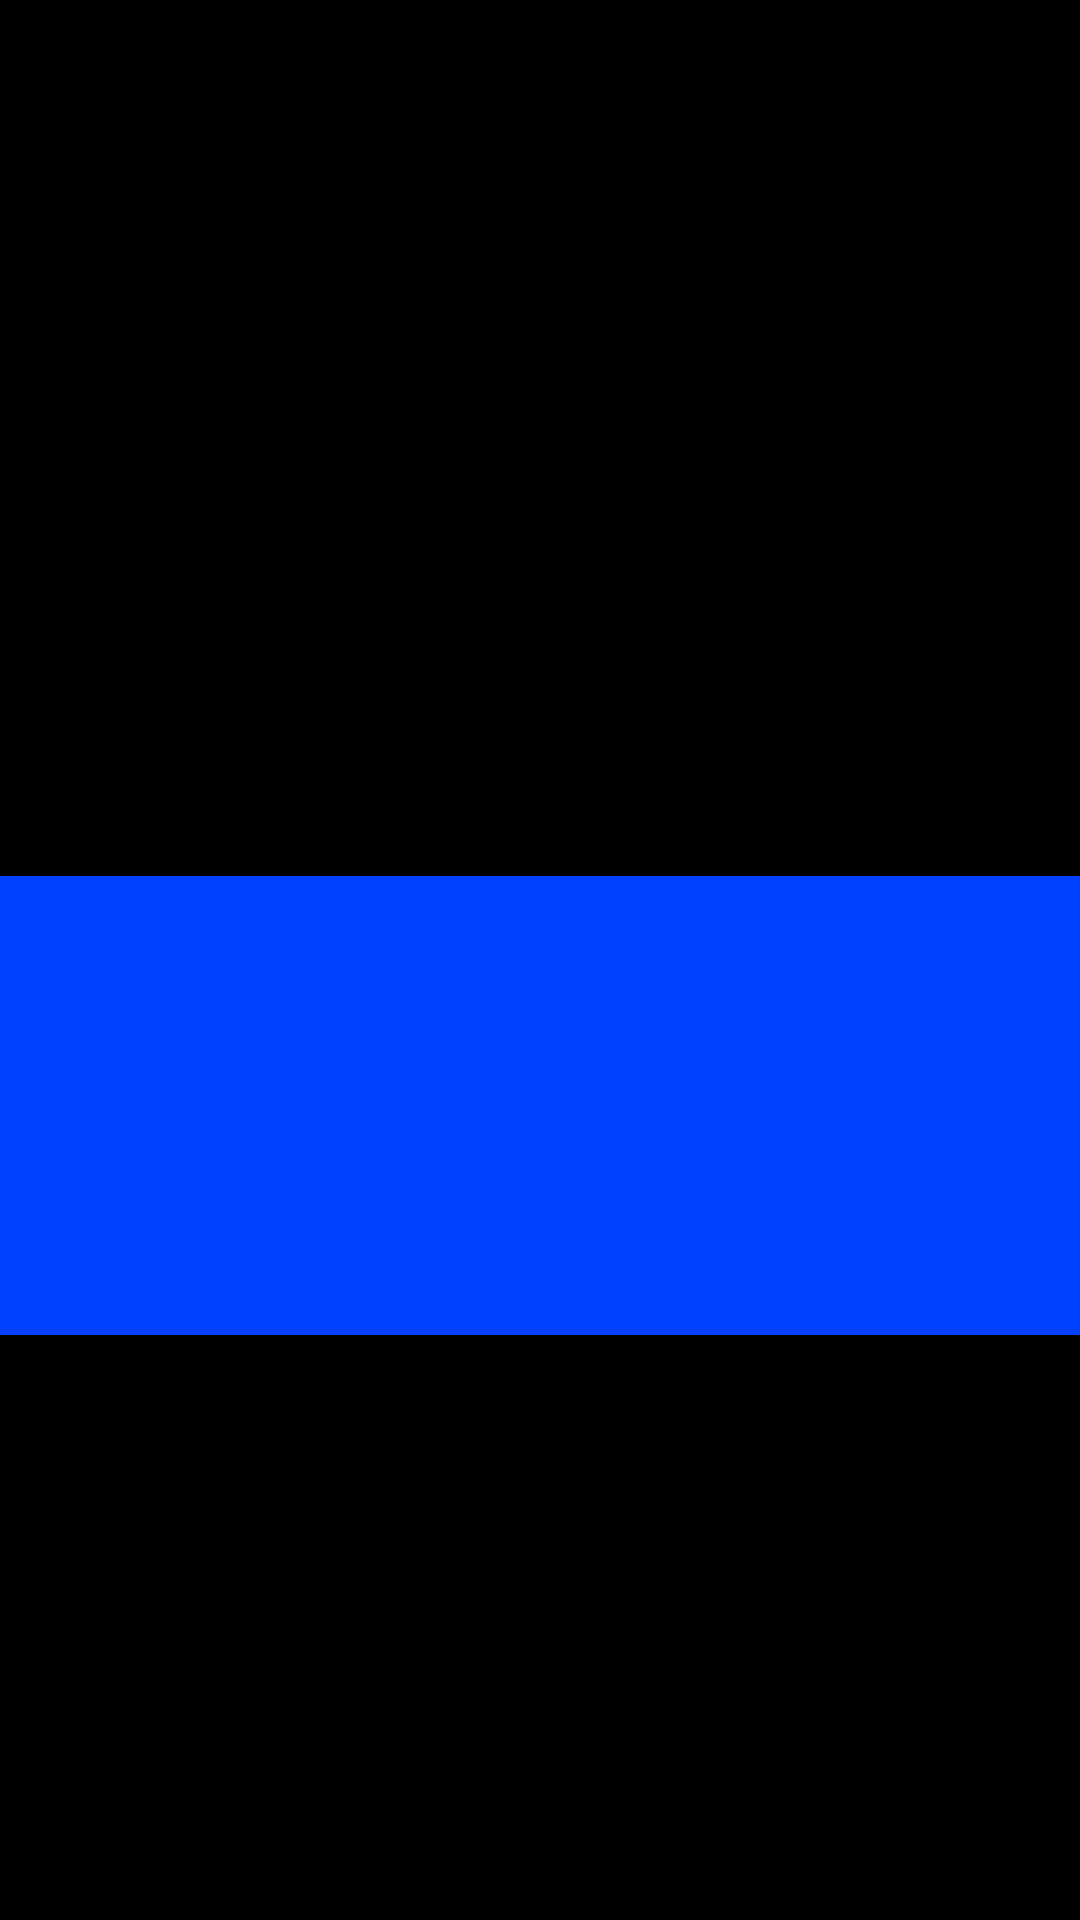
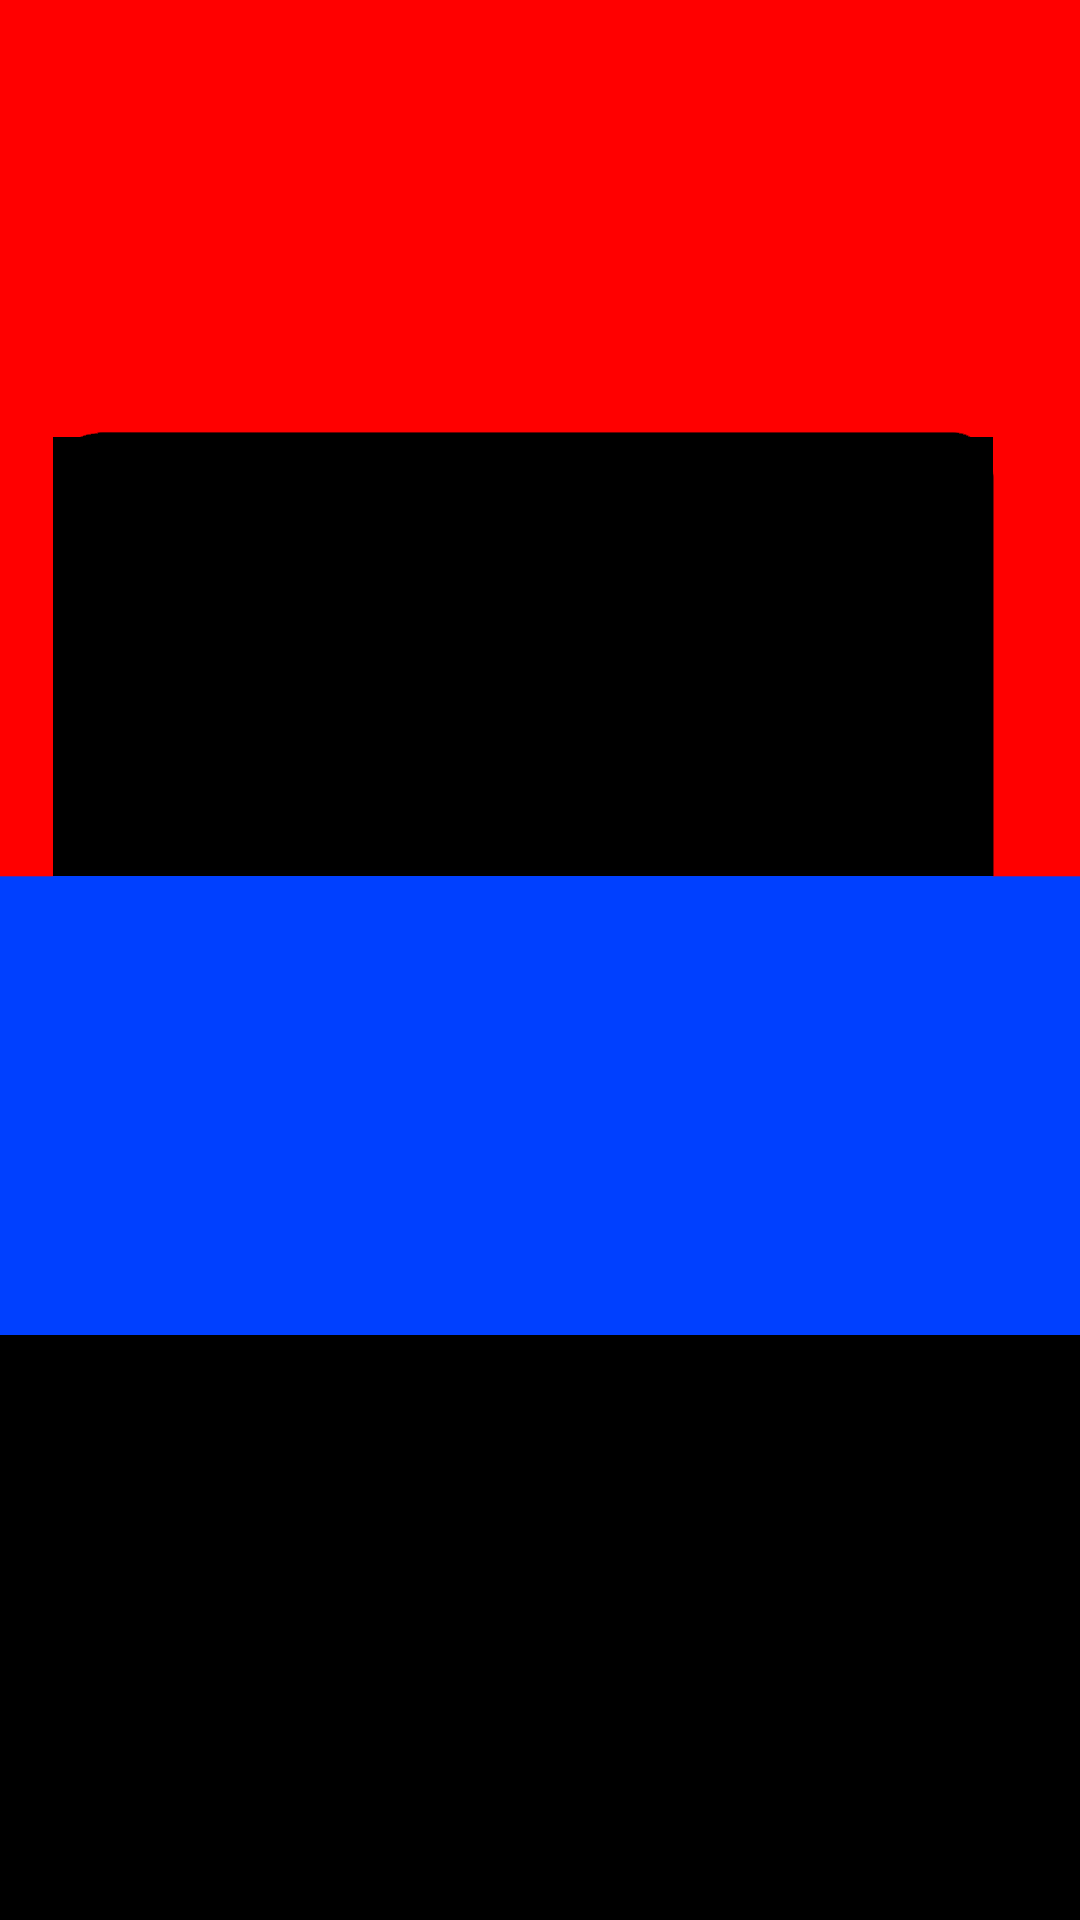
Tune throw speed, ball scale, keeper bob, and void red zone.
Keep launch velocity with a cap, gentler perspective shrink, and red hitbox_bg as out-of-bounds.

Changed region(s): [[0.0, 0.0, 1.0, 0.4688]]

diff --git a/app.js b/app.js
@@ -14,12 +14,12 @@ const hitboxCageImg = document.getElementById("hitboxCage");
 
 const BALL_SIZE = 118;
 const SCALE_NEAR = 1;
-const SCALE_FAR = 0.26;
+const SCALE_FAR = 0.42;
 const DRAG = 0.994;
 const MIN_SPEED = 90;
 const MAX_SPEED = 2200;
-const FLIGHT_MIN = 110;
-const FLIGHT_MAX = 480;
+const FLIGHT_MIN = 45;
+const FLIGHT_MAX = 360;
 const POWER_SPAN = 1700;
 const MESH_TILE = 46;
 const RESET_DELAY = 900;
@@ -31,14 +31,17 @@ const BALL_HIT = 10;
 const RECOVER_DELAY = 300;
 const BOUNCE_LIFE = 1000;
 const KEEPER_FRAMES = ["Gardien_walk1.png", "Gardien_walk2.png"];
-const KEEPER_FRAME_MS = 500;
+const KEEPER_FRAME_MS = 270;
 const KEEPER_MIN_X = 0.16;
 const KEEPER_MAX_X = 0.84;
 const KEEPER_SPEED_BASE = 0.14;
 const KEEPER_SPEED_PER_GOAL = 0.045;
+const KEEPER_BOB_PX = 3.5;
 /** masques alpha dynamiques du gardien (1 par frame) */
 const keeperMasks = [null, null];
 /** bande sol hitbox_bg (bleu), ratios hauteur image */
+/** bande hitbox_bg : rouge=vide, bleu=sol */
+const BG_RED_BOT = 0.225;
 const BG_BLUE_TOP = 0.456;
 const BG_BLUE_BOT = 0.695;
 
@@ -121,10 +124,12 @@ function updateKeeper(dt) {
     keeperDir = -1;
   }
   keeperEl.style.left = `${keeperX * 100}%`;
-  // miroir selon le sens (droite ↔ gauche)
-  keeperEl.style.transform = keeperDir > 0
-    ? "translateX(-50%) scaleX(-1)"
-    : "translateX(-50%)";
+  // bob un peu moins smooth
+  const bobHz = 1000 / KEEPER_FRAME_MS;
+  const s = Math.sin(performance.now() * 0.001 * bobHz * Math.PI * 2);
+  const bobY = Math.sign(s) * Math.pow(Math.abs(s), 0.55) * KEEPER_BOB_PX;
+  const flip = keeperDir > 0 ? " scaleX(-1)" : "";
+  keeperEl.style.transform = `translateX(-50%) translateY(${bobY}px)${flip}`;
 }
 
 setInterval(() => {
@@ -249,6 +254,17 @@ function stopOnMiss() {
 
 /** Sorti sur les côtés */
 function stopOnSideOut() {
+  setBallRing(false);
+  vx = 0;
+  vy = 0;
+  ballEl.classList.remove("is-flying");
+  ballEl.style.opacity = "0";
+  state = "reset";
+  scheduleRecover();
+}
+
+/** Zone rouge hitbox_bg = vide → balle revient */
+function stopOnVoid() {
   setBallRing(false);
   vx = 0;
   vy = 0;
@@ -563,10 +579,10 @@ function probeKeeperSwept() {
 function probeBgZone() {
   const g = game.getBoundingClientRect();
   const bg = hitboxBgImg.getBoundingClientRect();
-  // même centre 10x10 que la cage
   const cy = g.top + y;
   if (bg.height < 2) return "other";
   const t = (cy - bg.top) / bg.height;
+  if (t <= BG_RED_BOT) return "red";
   if (t >= BG_BLUE_TOP && t <= BG_BLUE_BOT) return "blue";
   return "black";
 }
@@ -617,6 +633,14 @@ function bounceFloor() {
 
 function resolveHits() {
   const bgZone = probeBgZone();
+
+  // rouge hitbox_bg = vide → retour joueur
+  if (bgZone === "red") {
+    stopOnVoid();
+    prevBgZone = bgZone;
+    return;
+  }
+
   if (bgZone === "black") leftGround = true;
 
   // gardien d'abord (hitbox = son PNG)
@@ -668,19 +692,19 @@ function applyPowerAim(dt) {
 
   const denom = Math.max(40, throwStartY - targetY);
   const progress = clamp((throwStartY - y) / denom, 0, 1);
-  const boost = targetZone === ZONE.violet ? 2.4 : targetZone === ZONE.blue ? 1.35 : 0.95;
-  const pullY = (0.12 + progress * progress * (1.1 + shotPower * 1.2)) * boost;
-  const pullX = (0.07 + progress * progress * 0.6) * (0.7 + shotPower * 0.4);
+  const boost = targetZone === ZONE.violet ? 1.15 : targetZone === ZONE.blue ? 0.85 : 0.65;
+  const pullY = (0.04 + progress * progress * (0.35 + shotPower * 0.45)) * boost;
+  const pullX = (0.03 + progress * progress * 0.28) * (0.5 + shotPower * 0.3);
 
-  x += (targetX - x) * Math.min(1, pullX * dt * 14);
-  y += (targetY - y) * Math.min(1, pullY * dt * (16 + shotPower * 16));
+  x += (targetX - x) * Math.min(1, pullX * dt * 6);
+  y += (targetY - y) * Math.min(1, pullY * dt * (7 + shotPower * 6));
 
   // force la montée jusqu’au violet (ne s’arrête pas dans le bleu)
   if (targetZone === ZONE.violet && y > targetY + 4) {
-    const catchUp = (y - targetY) * 3.2;
-    vy = Math.min(vy, -180 - catchUp - shotPower * 420);
+    const catchUp = (y - targetY) * 1.1;
+    vy = Math.min(vy, -60 - catchUp - shotPower * 120);
   } else if (targetZone === ZONE.blue && y > targetY + 6) {
-    vy = Math.min(vy, -120 - shotPower * 280);
+    vy = Math.min(vy, -45 - shotPower * 80);
   }
 }
 
@@ -734,16 +758,18 @@ function endAim(e) {
     return;
   }
 
-  // Courbe un peu moins dure pour atteindre le violet
+  // vitesse = lancer, avec plafond
+  vx = rawVx;
+  vy = rawVy;
+  const sp = Math.hypot(vx, vy);
+  if (sp > FLIGHT_MAX) {
+    const k = FLIGHT_MAX / sp;
+    vx *= k;
+    vy *= k;
+  }
+
   const t = clamp((rawSpeed - MIN_SPEED) / POWER_SPAN, 0, 1);
-  const curved = Math.pow(t, 1.65);
-  const flightSpeed = FLIGHT_MIN + curved * (FLIGHT_MAX - FLIGHT_MIN);
-
-  const inv = 1 / rawSpeed;
-  vx = rawVx * inv * flightSpeed;
-  vy = rawVy * inv * flightSpeed;
-
-  shotPower = curved;
+  shotPower = Math.pow(t, 1.65);
   targetZone = zoneFromPower(shotPower);
   const cell = pickRandomCell(targetZone);
   targetMaskX = cell.mx;

diff --git a/index.html b/index.html
@@ -129,7 +129,7 @@
     </div>
   </section>
 
-  <script src="app.js?v=34"></script>
+  <script src="app.js?v=43"></script>
   <!-- Logique jeu / hitbox : app.js (pas dans ce fichier HTML) -->
 </body>
 </html>

diff --git a/styles.css b/styles.css
@@ -259,7 +259,7 @@ body {
   top: 38%;
   left: 50%;
   transform: translate(-50%, -50%);
-  width: min(88%, 340px);
+  width: min(96%, 400px);
   z-index: 2;
   pointer-events: none;
 }